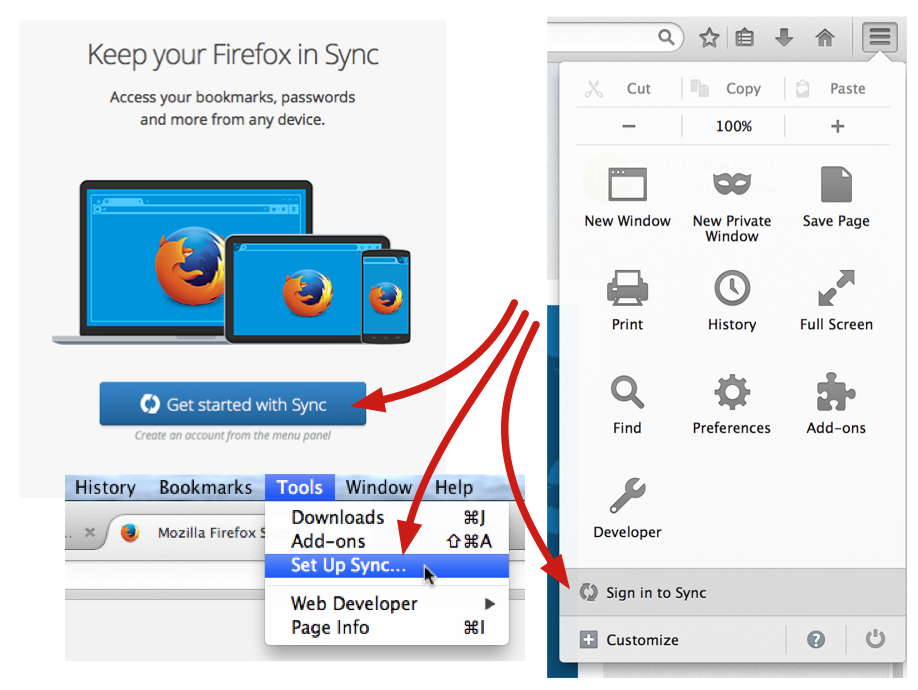
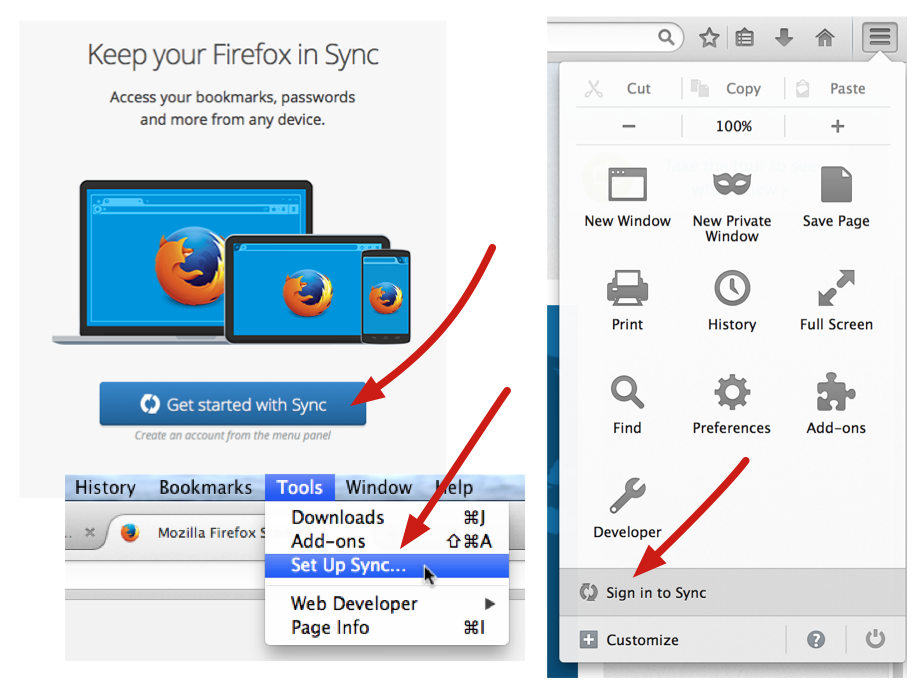
improve entrypoints image, remove used-for slide

diff --git a/index.html b/index.html
@@ -22,7 +22,7 @@
   .reveal h3 { margin-bottom: 50px; }
   .reveal h3 {word-wrap: normal; -webkit-hyphens: manual; -moz-hyphens: manual; hyphens: manual}
   .reveal img.noborder { background: none; box-shadow: none; border: none; }
-  .reveal img.logos { margin-top: 30px; margin-left: 20px; margin-right: 20px; }
+  .reveal img.logos { margin-top: 20px; margin-left: 20px; margin-right: 20px; }
   .reveal code {font-size: 70%}
  </style>
 </head>
@@ -168,21 +168,15 @@
     <section>
       <h3>What is a Firefox Account?</h3>
       <ul>
-        <li>Single sign-on for a variety of Mozilla services</li>
+        <li>Single sign-on for Mozilla services</li>
+        <ul>
+          <li>Sync (as of FF29)</li>
+          <li>Marketplace, Where's My Fox (soon)</li>
+        </ul>
         <li>Usable in any browser</li>
         <ul>
           <li>But some features will only be used by Firefox at first</li>
         </ul>
-    </section>
-
-    <section>
-      <h3>What is FxA used for?</h3>
-      <ul>
-        <li>Firefox Sync (as of FF29)</li>
-        <li>Marketplace (soon)</li>
-        <li>Where's My Fox (soon)</li>
-        <li>other upcoming Mozilla services</li>
-      </ul>
       <br>
       <img class="noborder logos" src="images/Firefox_Sync_Logo.png">
       <img class="noborder logos" src="images/mozilla-marketplace-logo-final.png" width="270">
